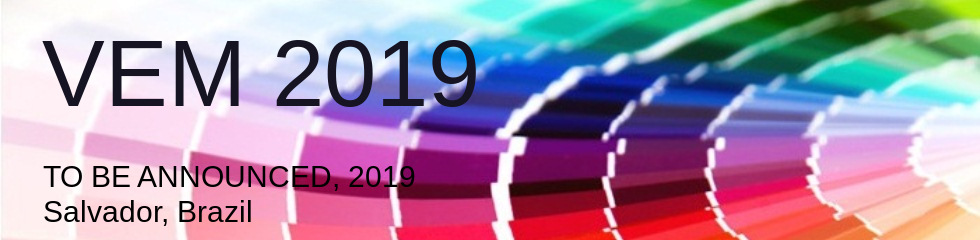
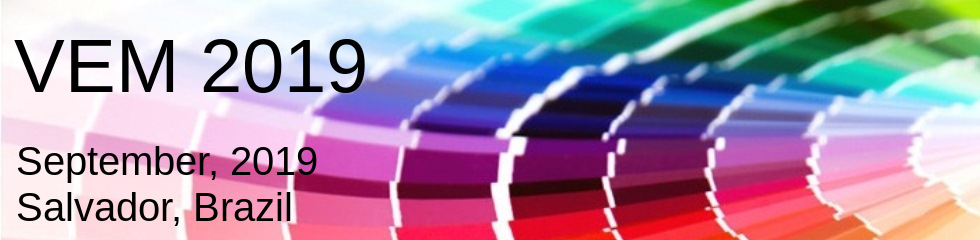
Adicionei a data e mudei o email

Changed region(s): [[0.0, 0.1458, 0.4898, 0.4667], [0.0, 0.6125, 0.4286, 0.9333]]

diff --git a/submissions.html b/submissions.html
@@ -94,7 +94,7 @@ nav</button> </p>
 </tr>
 <tr>
       <td>Workshop Date:</td>
-      <td><span class="">TO BE ANNOUNCED, 2019</span></td>
+      <td><span class="">September 25, 2019</span></td>
 </tr>
 </tbody>
 </table>
@@ -153,7 +153,7 @@ nav</button> </p>
     <li>You should not relying on supplementary material. However, whether you need to make available any artifact, please anonymize it and the respective website.</li>
 </ul>
 
-<p>In case you have any doubt about the preparation of your manuscript following the double-blind rules, do not hesitate to send an email to vemworkshop@gmail.com.</p>
+<p>In case you have any doubt about the preparation of your manuscript following the double-blind rules, do not hesitate to send an email to vem2019@cin.ufpe.br.</p>
 
 
 </div>

diff --git a/index.html b/index.html
@@ -129,7 +129,7 @@
                 </tr>
                 <tr>
                   <td>Workshop Date:</td>
-                  <td><span class="">TO BE ANNOUNCED, 2019</span></td>
+                  <td><span class="">September 25, 2019</span></td>
                 </tr>
               </tbody>
             </table>
